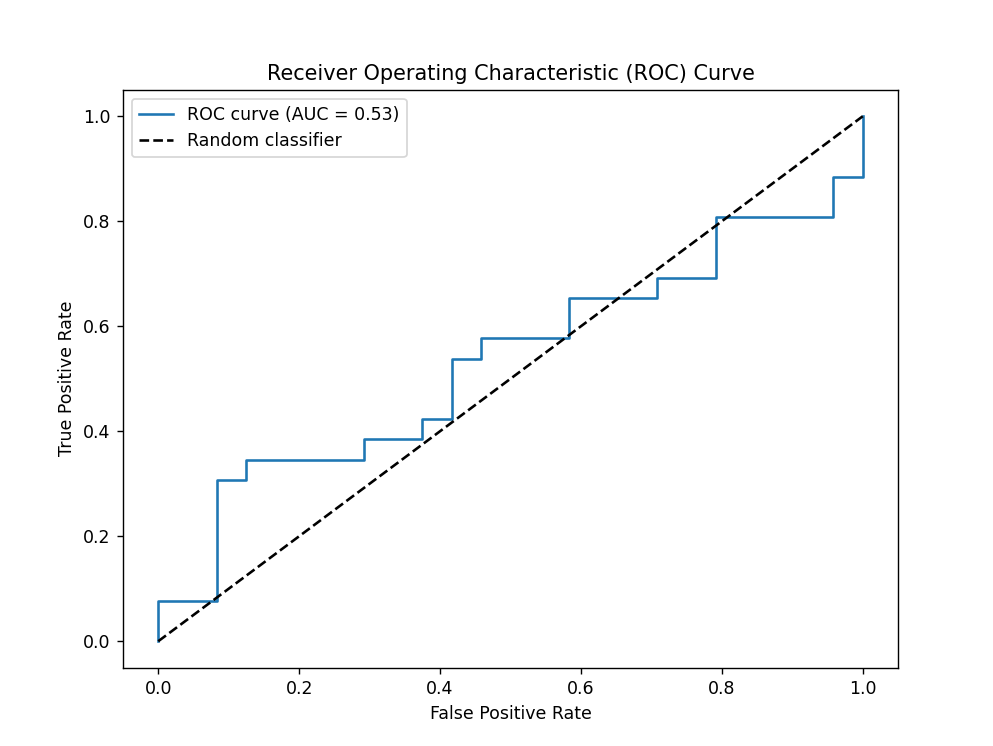
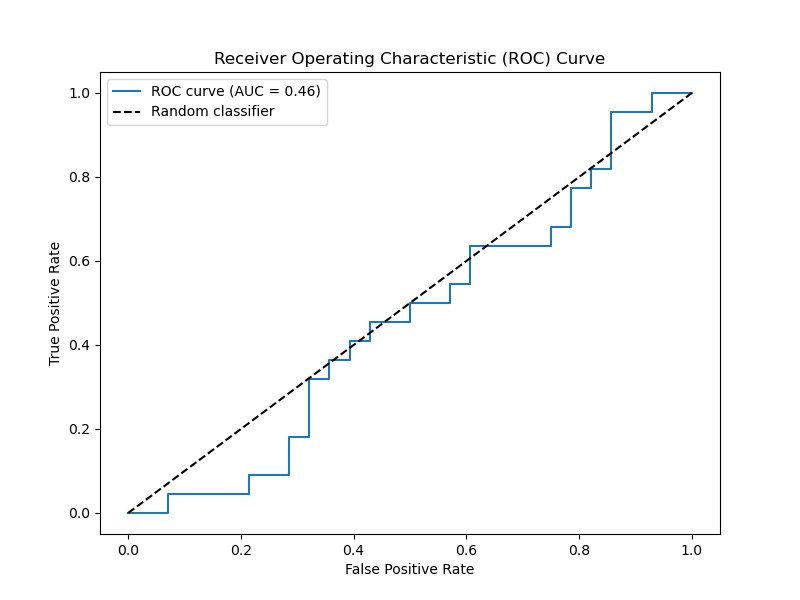
efficientnet metrics update

diff --git a/waste_efficientnet.py b/waste_efficientnet.py
@@ -29,7 +29,7 @@ from skimage.segmentation import mark_boundaries
 # Set image dimensions, batch size, and other hyperparameters
 img_rows, img_cols = 224, 224    # Image dimensions to be fed to the network
 batch_size = 64                  # Batch size during training
-n_epochs = 5                     # Number of epochs for training
+n_epochs = 50                    # Number of epochs for training
 validation_split = 0.2           # Use 20% of training data for validation
 n_classes = 2                    # Number of classes (Organic and Recyclable)
 seed = 10                        # Seed for reproducibility
